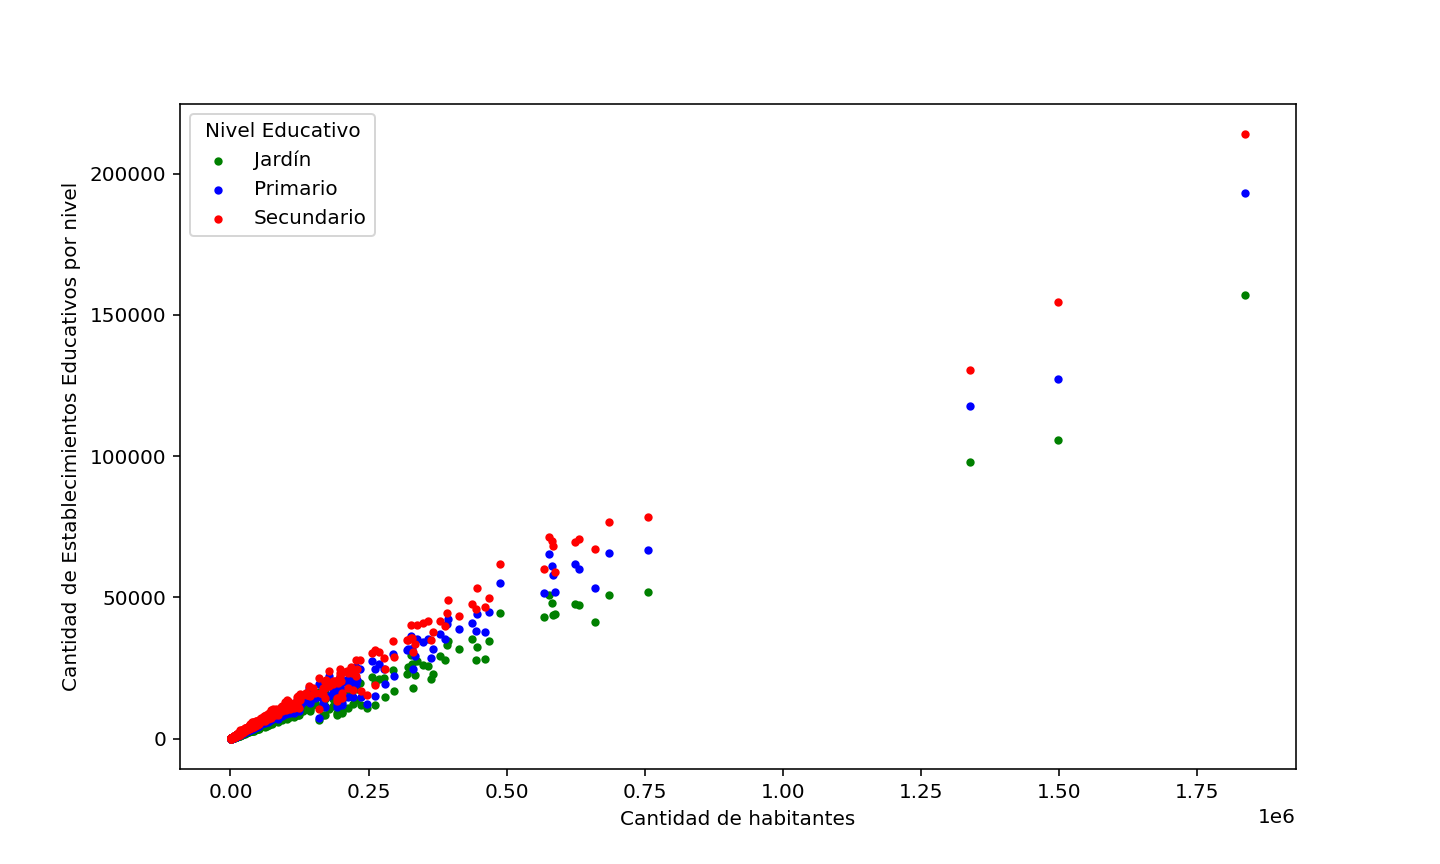
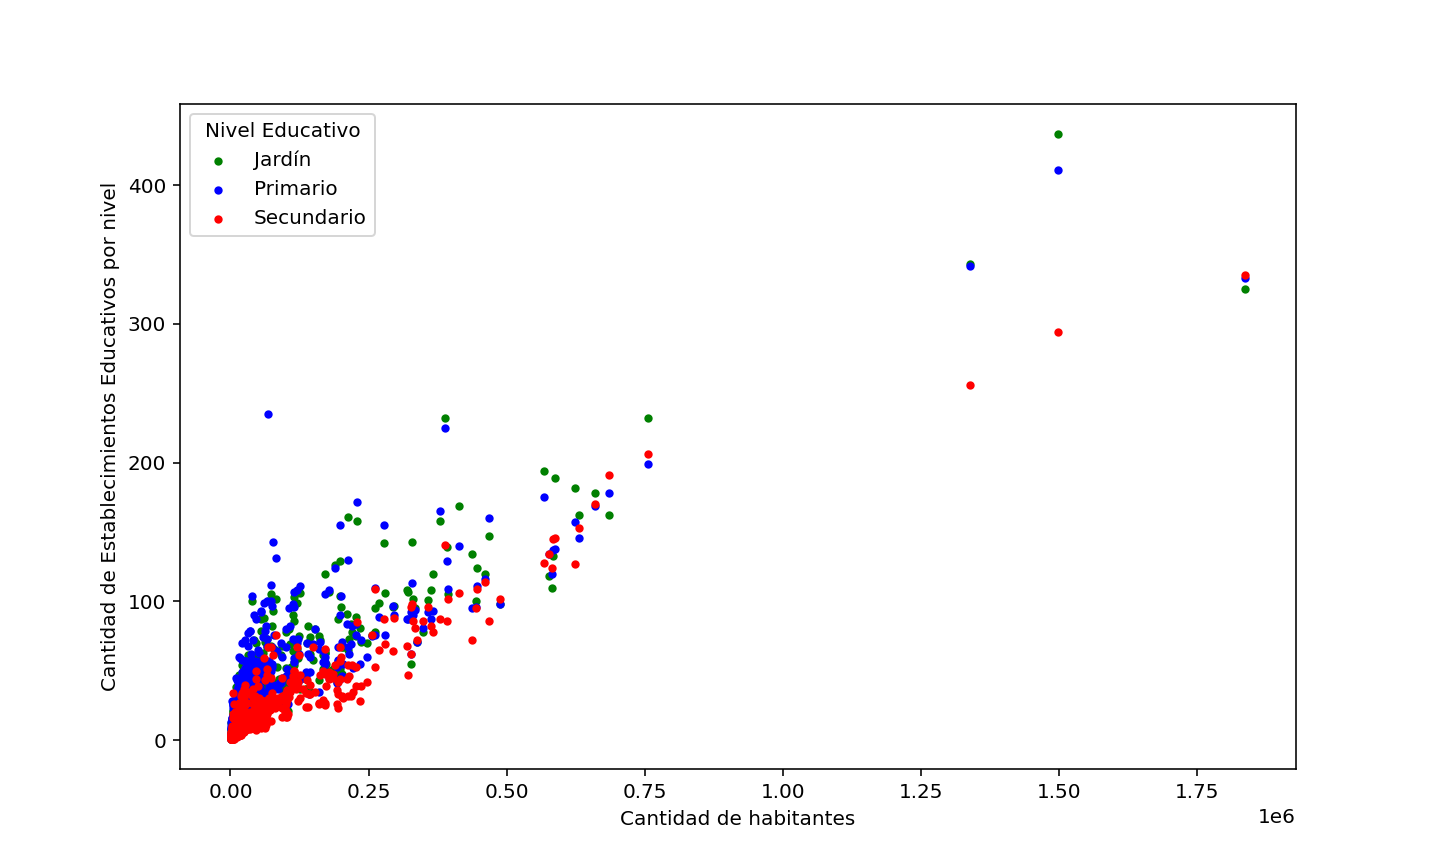
ejii

diff --git a/tp1.py b/tp1.py
@@ -716,10 +716,11 @@ cantidad_ee_comunas = dd.sql("""
     GROUP BY d.ID_PROV, d.ID_DEPTO, d.Departamento
 """).df()
 
-        
+# El siguiente dataset tiene más datos de los que son usados inmediatamente para el primer gráfico, pero que usamos posteriormente        
+
 centros_educativos_por_departamento = dd.sql("""
     SELECT 
-        p.ID_DEPTO, 
+        p.ID_DEPTO, c.Jardines, c.Primarios, c.Secundarios,
         SUM(p.Casos) AS total_poblacion,
         (Jardines + Primarios + Secundarios) AS total_ee,
         SUM(CASE WHEN p.Edad BETWEEN 0 AND 5 THEN p.Casos ELSE 0 END) AS total_jardin,
@@ -734,7 +735,7 @@ centros_educativos_por_departamento = dd.sql("""
     UNION
 
     SELECT 
-        p.ID_DEPTO, 
+        p.ID_DEPTO, c.Jardines, c.Primarios, c.Secundarios,
         SUM(p.Casos) AS total_poblacion,
         (Jardines + Primarios + Secundarios) AS total_ee,
         SUM(CASE WHEN p.Edad BETWEEN 0 AND 5 THEN p.Casos ELSE 0 END) AS total_jardin,
@@ -756,19 +757,19 @@ plt.rcParams['font.family'] = 'sans-serif'
 
 ax.scatter(
     centros_educativos_por_departamento['total_poblacion'],
-    centros_educativos_por_departamento['total_jardin'],
+    centros_educativos_por_departamento['Jardines'],
     s=10, color="green", label="Jardín"
 )
 
 ax.scatter(
     centros_educativos_por_departamento['total_poblacion'],
-    centros_educativos_por_departamento['total_primario'],
+    centros_educativos_por_departamento['Primarios'],
     s=10, color="blue", label="Primario"
 )
 
 ax.scatter(
     centros_educativos_por_departamento['total_poblacion'],
-    centros_educativos_por_departamento['total_secundario'],
+    centros_educativos_por_departamento['Secundarios'],
     s=10, color="red", label="Secundario"
 )
 
